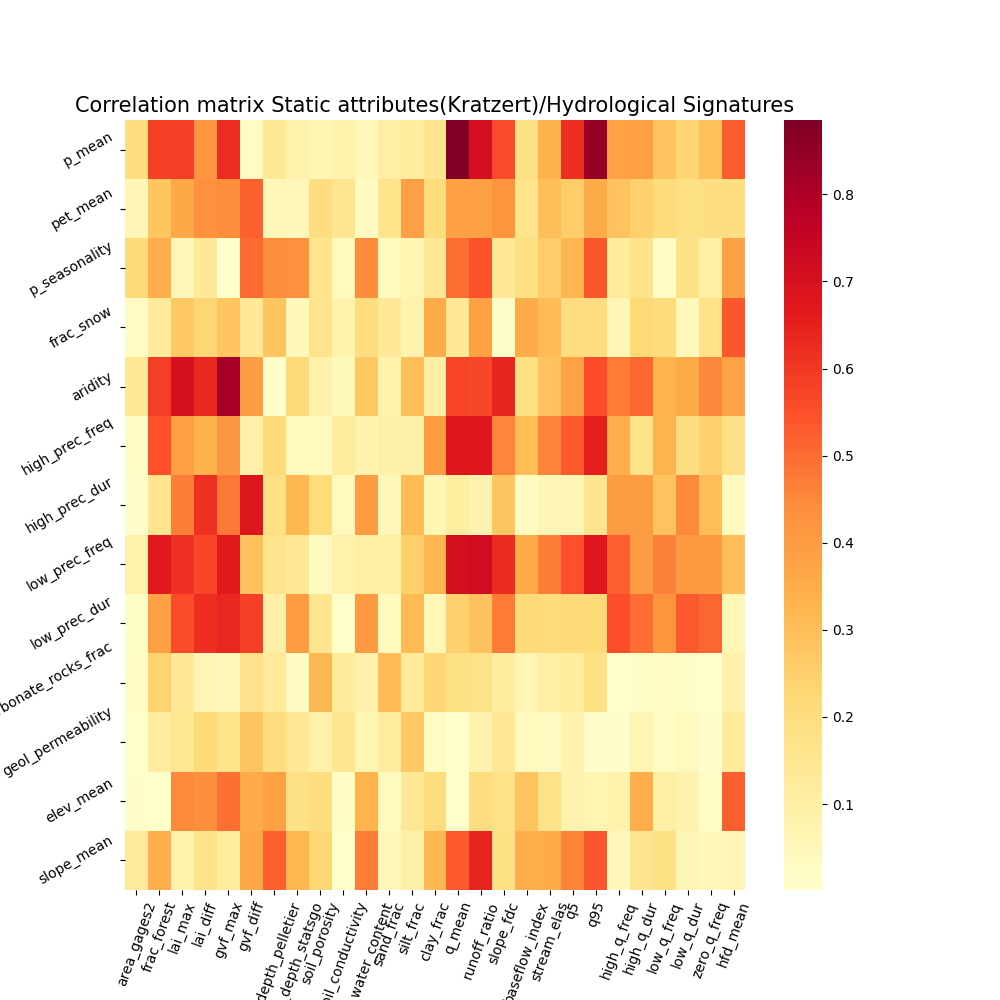
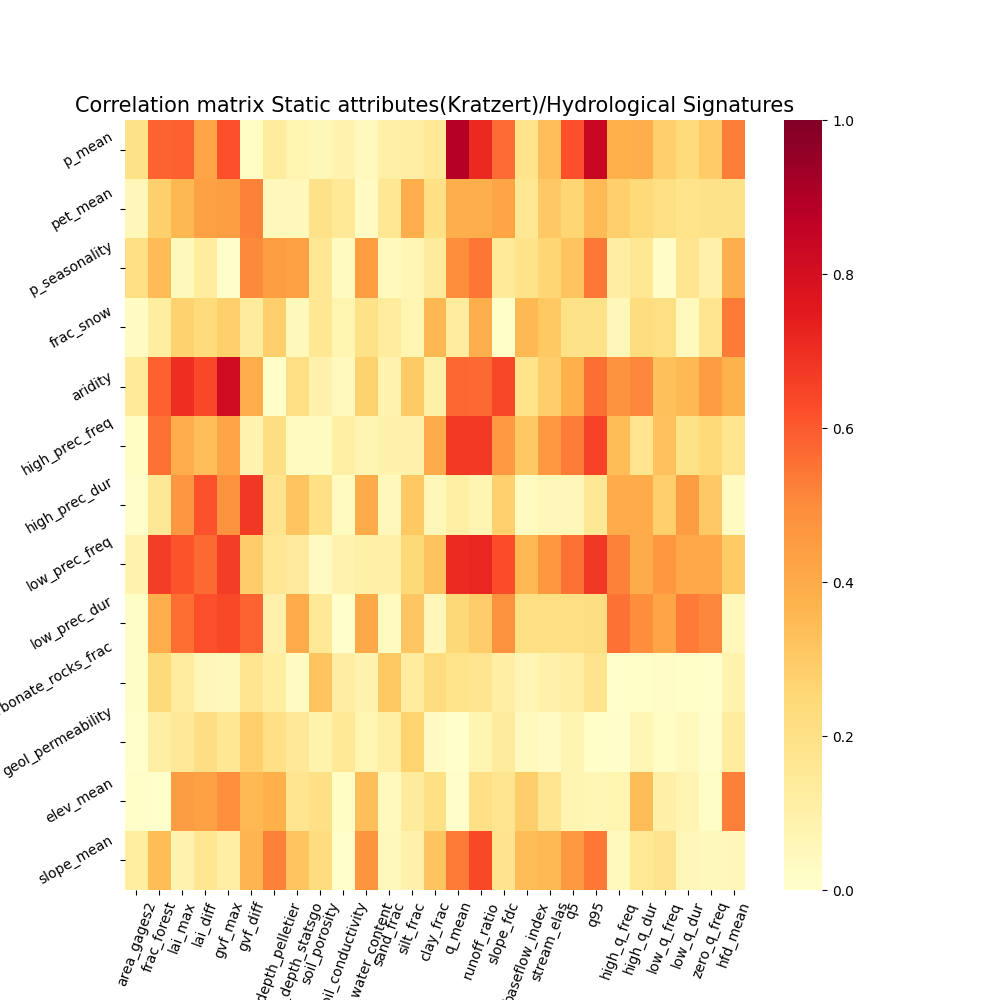
up

diff --git a/src/analysis_imbalance.py b/src/analysis_imbalance.py
@@ -49,7 +49,7 @@ columns = df_ES.iloc[:,1::].columns
 corr = np.array(np.abs(df_ES.iloc[:,1::].corr()))[:4,4:]
 
 fig, axs = plt.subplots(1,1,figsize=(10,10))
-g = sns.heatmap(corr, xticklabels=columns[4:], yticklabels=columns[:4], cmap="YlOrRd", ax=axs)
+g = sns.heatmap(corr, xticklabels=columns[4:], yticklabels=columns[:4], cmap="YlOrRd", ax=axs, vmin=0, vmax=1)
 g.set_xticklabels(g.get_xticklabels(), rotation = 70, fontsize = 10)
 g.set_yticklabels(g.get_yticklabels(), rotation = 30, fontsize = 10)
 #sns.heatmap(corr_noise, xticklabels=corr.columns, yticklabels=corr.columns, cmap="bwr", ax=axs[1])
@@ -62,7 +62,7 @@ columns = df_EH.iloc[:,1::].columns
 corr = np.array(np.abs(df_EH.iloc[:,1::].corr()))[:4,4:]
 
 fig, axs = plt.subplots(1,1,figsize=(10,10))
-g = sns.heatmap(corr, xticklabels=columns[4:], yticklabels=columns[:4], cmap="YlOrRd", ax=axs)
+g = sns.heatmap(corr, xticklabels=columns[4:], yticklabels=columns[:4], cmap="YlOrRd", ax=axs, vmin=0, vmax=1)
 g.set_xticklabels(g.get_xticklabels(), rotation = 70, fontsize = 10)
 g.set_yticklabels(g.get_yticklabels(), rotation = 30, fontsize = 10)
 #sns.heatmap(corr_noise, xticklabels=corr.columns, yticklabels=corr.columns, cmap="bwr", ax=axs[1])
@@ -74,7 +74,7 @@ fig.savefig(file_corr)
 columns = df_SH.iloc[:,1::].columns
 corr = np.array(np.abs(df_SH.iloc[:,1::].corr()))[:13,13:]
 fig, axs = plt.subplots(1,1,figsize=(10,10))
-g = sns.heatmap(corr, xticklabels=columns[13:], yticklabels=columns[:13], cmap="YlOrRd", ax=axs)
+g = sns.heatmap(corr, xticklabels=columns[13:], yticklabels=columns[:13], cmap="YlOrRd", ax=axs, vmin=0, vmax=1)
 g.set_xticklabels(g.get_xticklabels(), rotation = 70, fontsize = 10)
 g.set_yticklabels(g.get_yticklabels(), rotation = 30, fontsize = 10)
 #sns.heatmap(corr_noise, xticklabels=corr.columns, yticklabels=corr.columns, cmap="bwr", ax=axs[1])

diff --git a/src/LSTM_main.py b/src/LSTM_main.py
@@ -1,7 +1,4 @@
-#import numpy as np
-#import pandas as pd
-import os
-#import multiprocessing
+import multiprocessing
 import argparse
 
 # pytorch
@@ -14,7 +11,7 @@ from pytorch_lightning.callbacks import ModelCheckpoint
 
 import torch.optim as optim
 from pytorch_lightning.callbacks.early_stopping import EarlyStopping 
-from torchvision import transforms, datasets
+
 
 # user functions
 from dataset import CamelDataset
